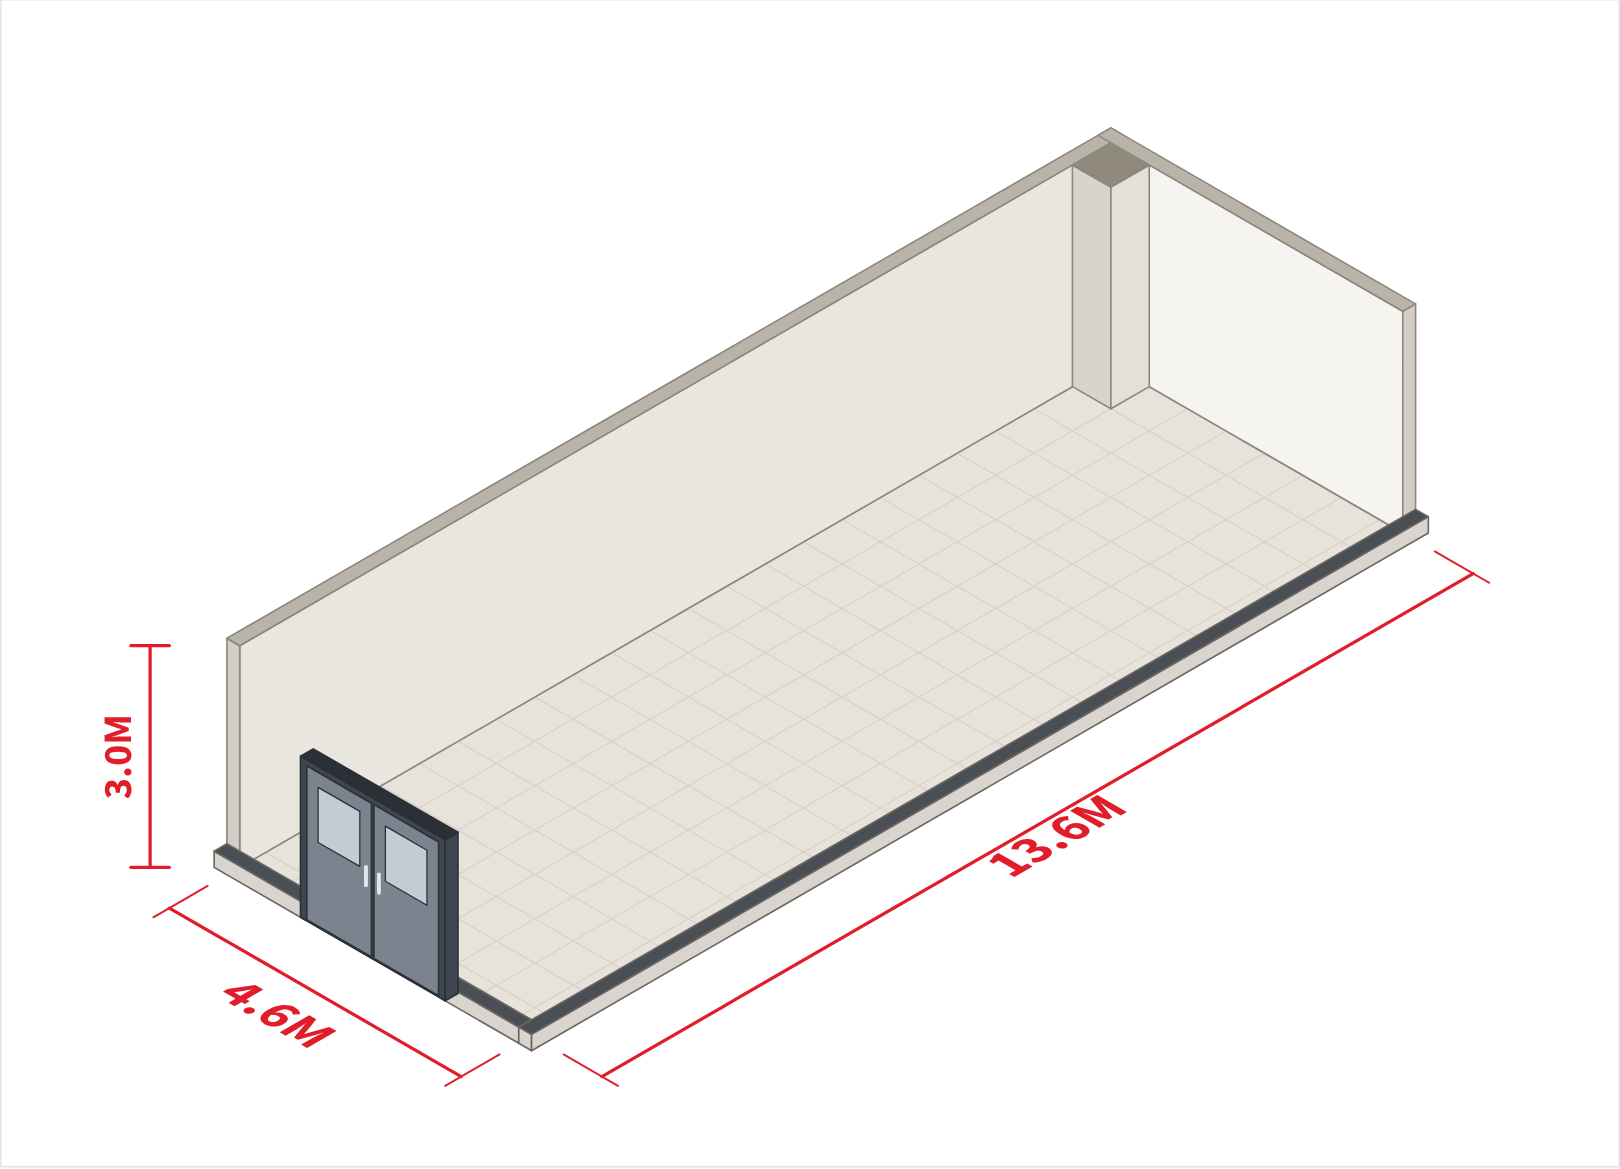
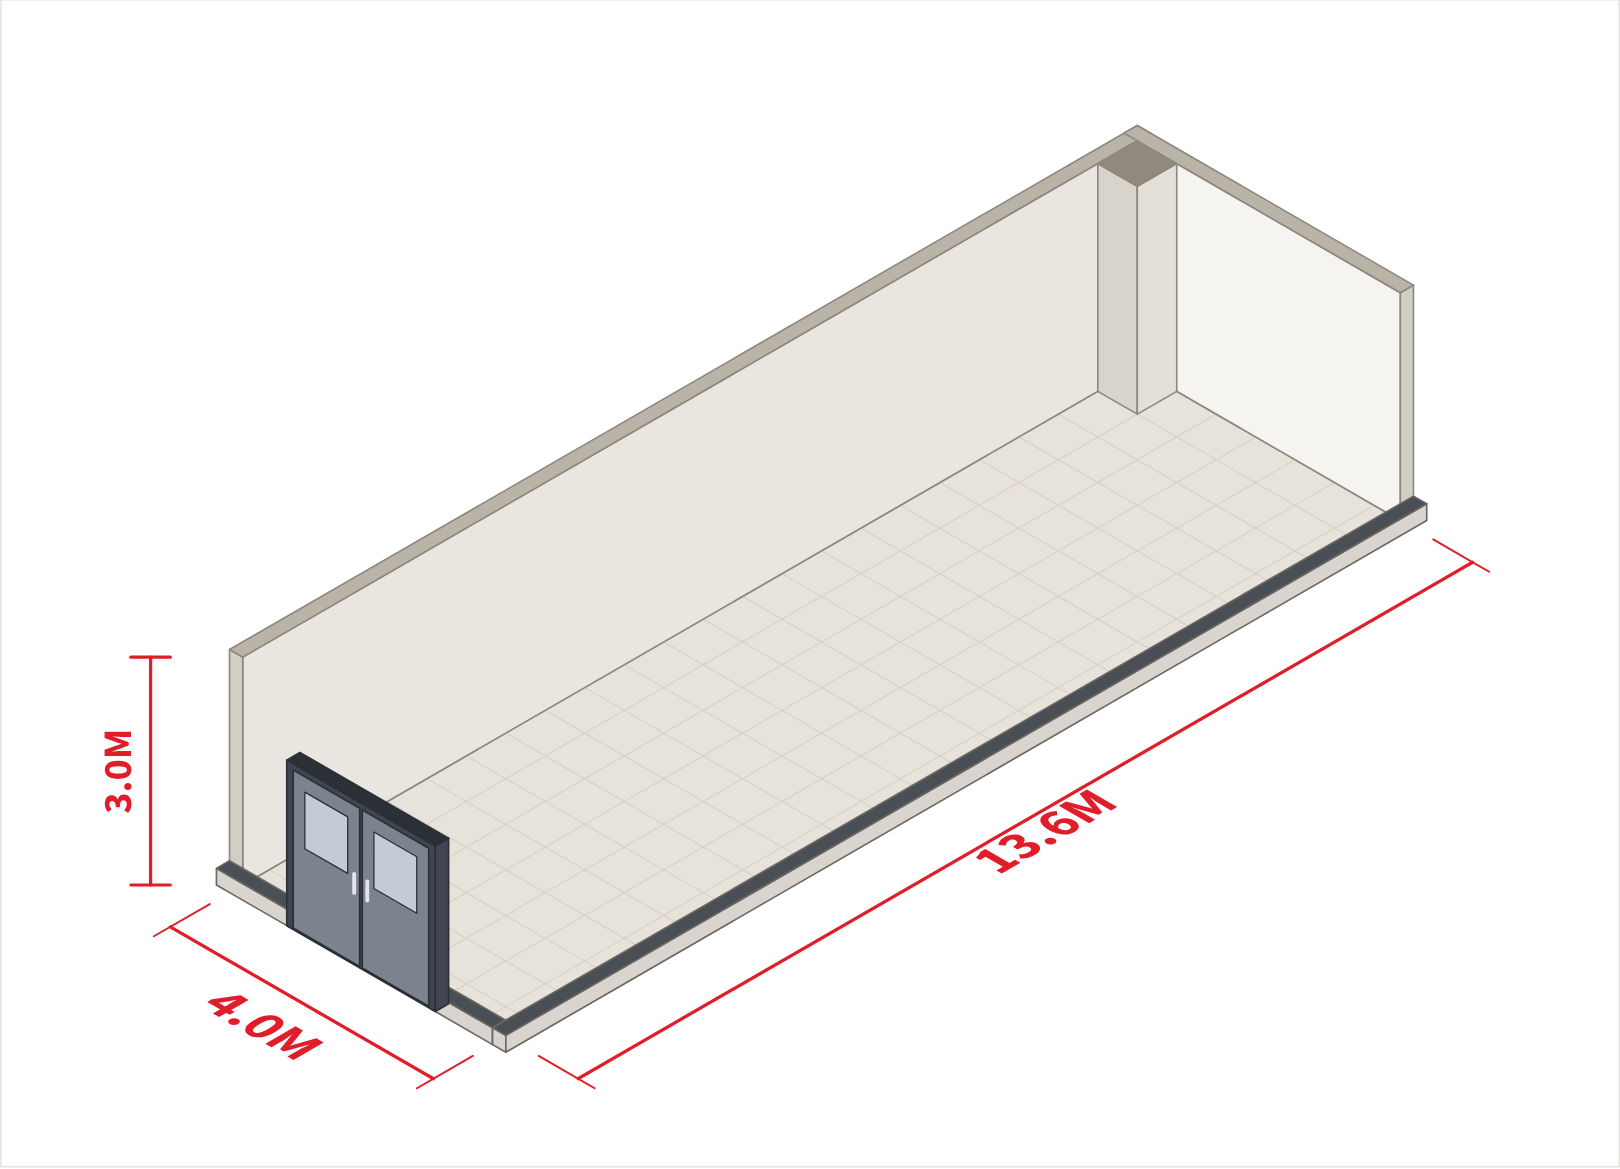
FB232·FB204·FB111 카드 치수를 전 호실 데이터와 일치시킴(FB 접두어 갱신 누락 수정)
Claude-Session: https://claude.ai/code/session_01TwCdqJrCBUBdWHc4DCHrCc

diff --git a/desian-3d/index.html b/desian-3d/index.html
@@ -189,8 +189,8 @@ const UNITS = [
   { id: "KA605", w: 5.2, d: 10.6,  area: 18.62, dir: "동향", sink: null,  blind: null },
   { id: "KA611", w: 4.0, d: 10.6,  area: 14.21, dir: "남향", sink: null,  blind: null, terrace: true,
     note: "단독 테라스" },
-  { id: "FB232", w: 5.73, d: 9.45, height: 3.0,  area: 16.38, dir: null,   sink: null,  blind: null, drive: true },
-  { id: "FB204", w: 5.21, d: 11.2, height: 3.0,  area: 17.64, dir: null,   sink: null,  blind: null, drive: true },
+  { id: "FB232", w: 5.2, d: 9.12, height: 3.0,  area: 16.38, dir: null,   sink: null,  blind: null, drive: true },
+  { id: "FB204", w: 5.2, d: 10.6, height: 3.0,  area: 17.64, dir: null,   sink: null,  blind: null, drive: true },
   { id: "KB1226", w: 5.2, d: 10.6, area: 18.62, dir: "동향", sink: true,  blind: true,
     note: "연계 호실 가능" },
   { id: "F441", w: 4.0, d: 7.85,   area: 10.67, dir: "남향", sink: null,  blind: null, drive: true },
@@ -215,7 +215,7 @@ const UNITS = [
   { id: "KA1906", w: 10.6, d: 10.6, area: 39.56, dir: "남동향 코너", corner: ["남", "동"], sink: null, blind: null },
   { id: "KB1710", w: 4.0, d: 7.68, area: 10.67, dir: "서향",  sink: null, blind: null },
   { id: "KB1630", w: 4.0, d: 10.6, area: 14.48, dir: "남향",  sink: null, blind: null },
-  { id: "FB111", w: 4.56, d: 13.61, height: 3.0,  area: 18.75, dir: null,    sink: null, blind: null, drive: true },
+  { id: "FB111", w: 4.0, d: 13.6, height: 3.0,  area: 18.75, dir: null,    sink: null, blind: null, drive: true },
   { id: "KB611", w: 5.2, d: 10.6,  area: 18.62, dir: "동향",  sink: null, blind: null },
   { id: "KB1135", w: 8.2, d: 8.2, area: 25.1, terrace: true,    dir: null,    sink: null, blind: null },
 ];
